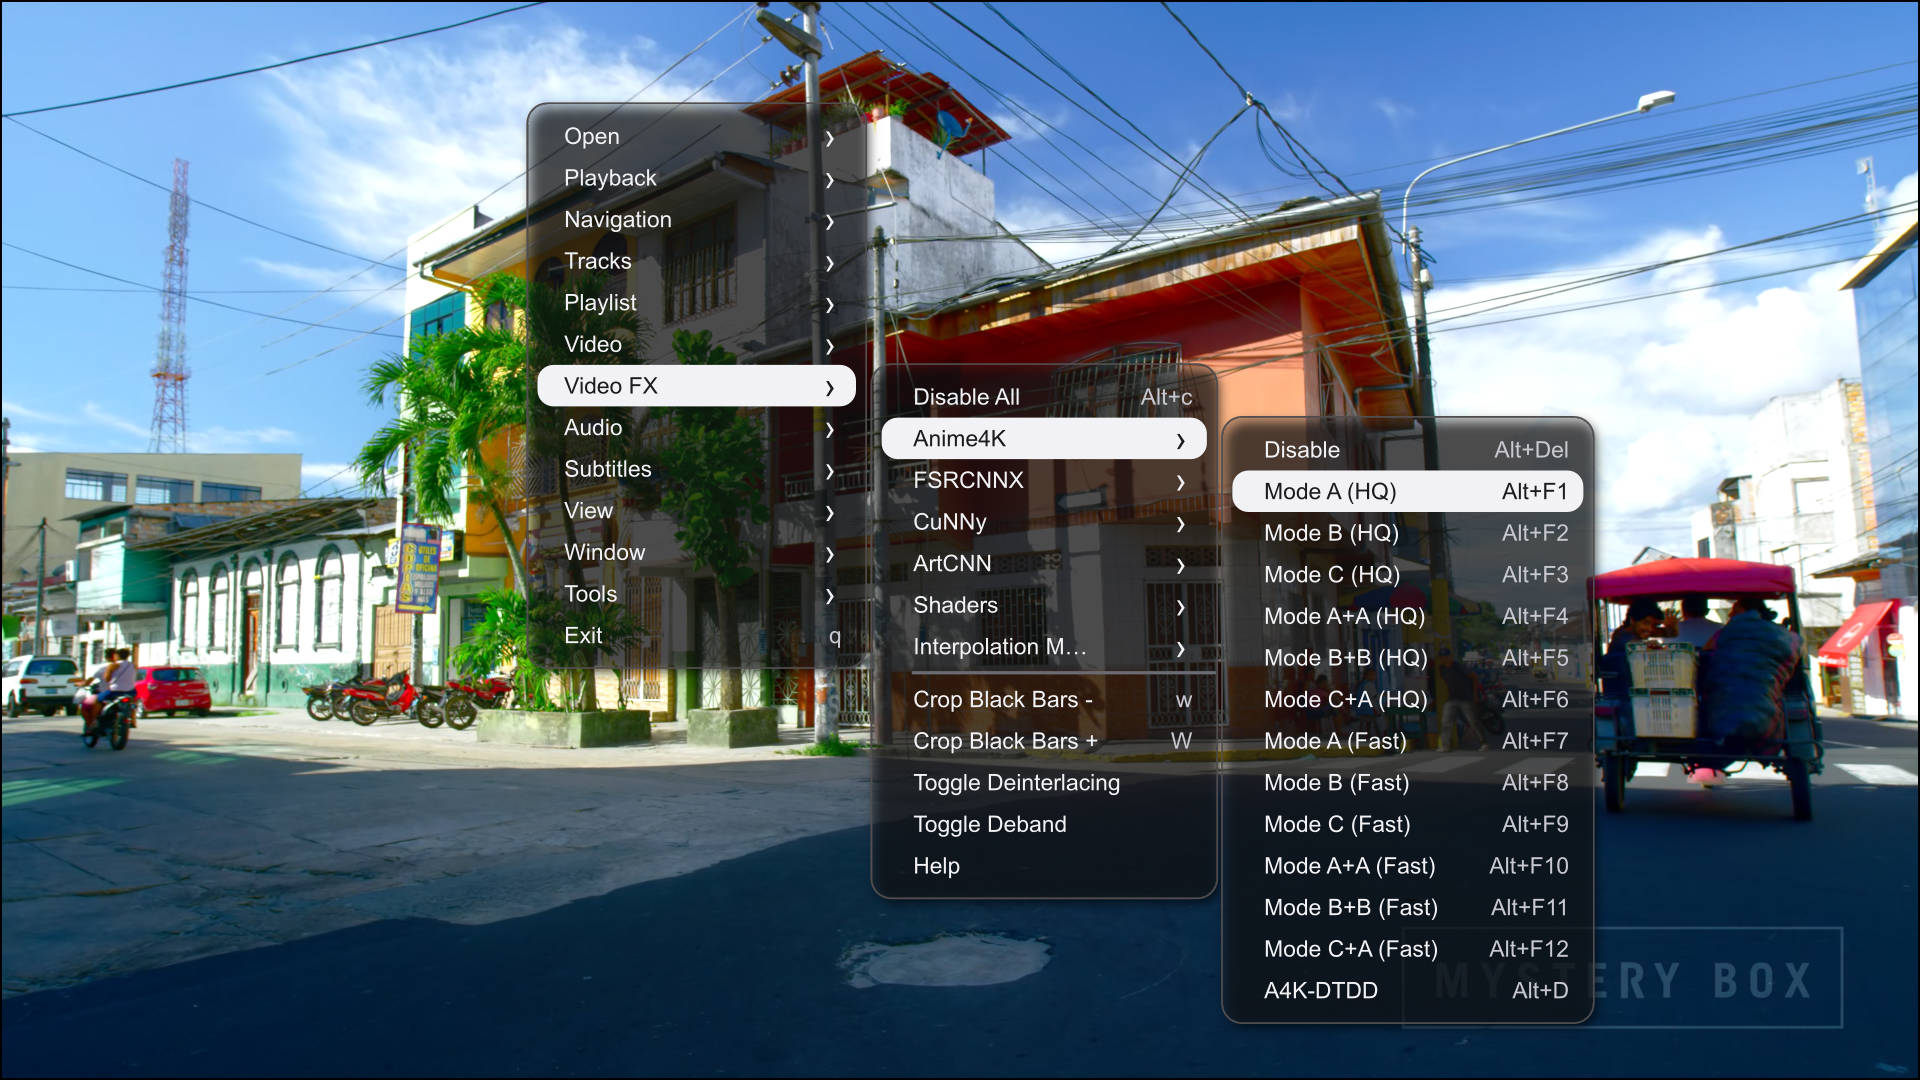
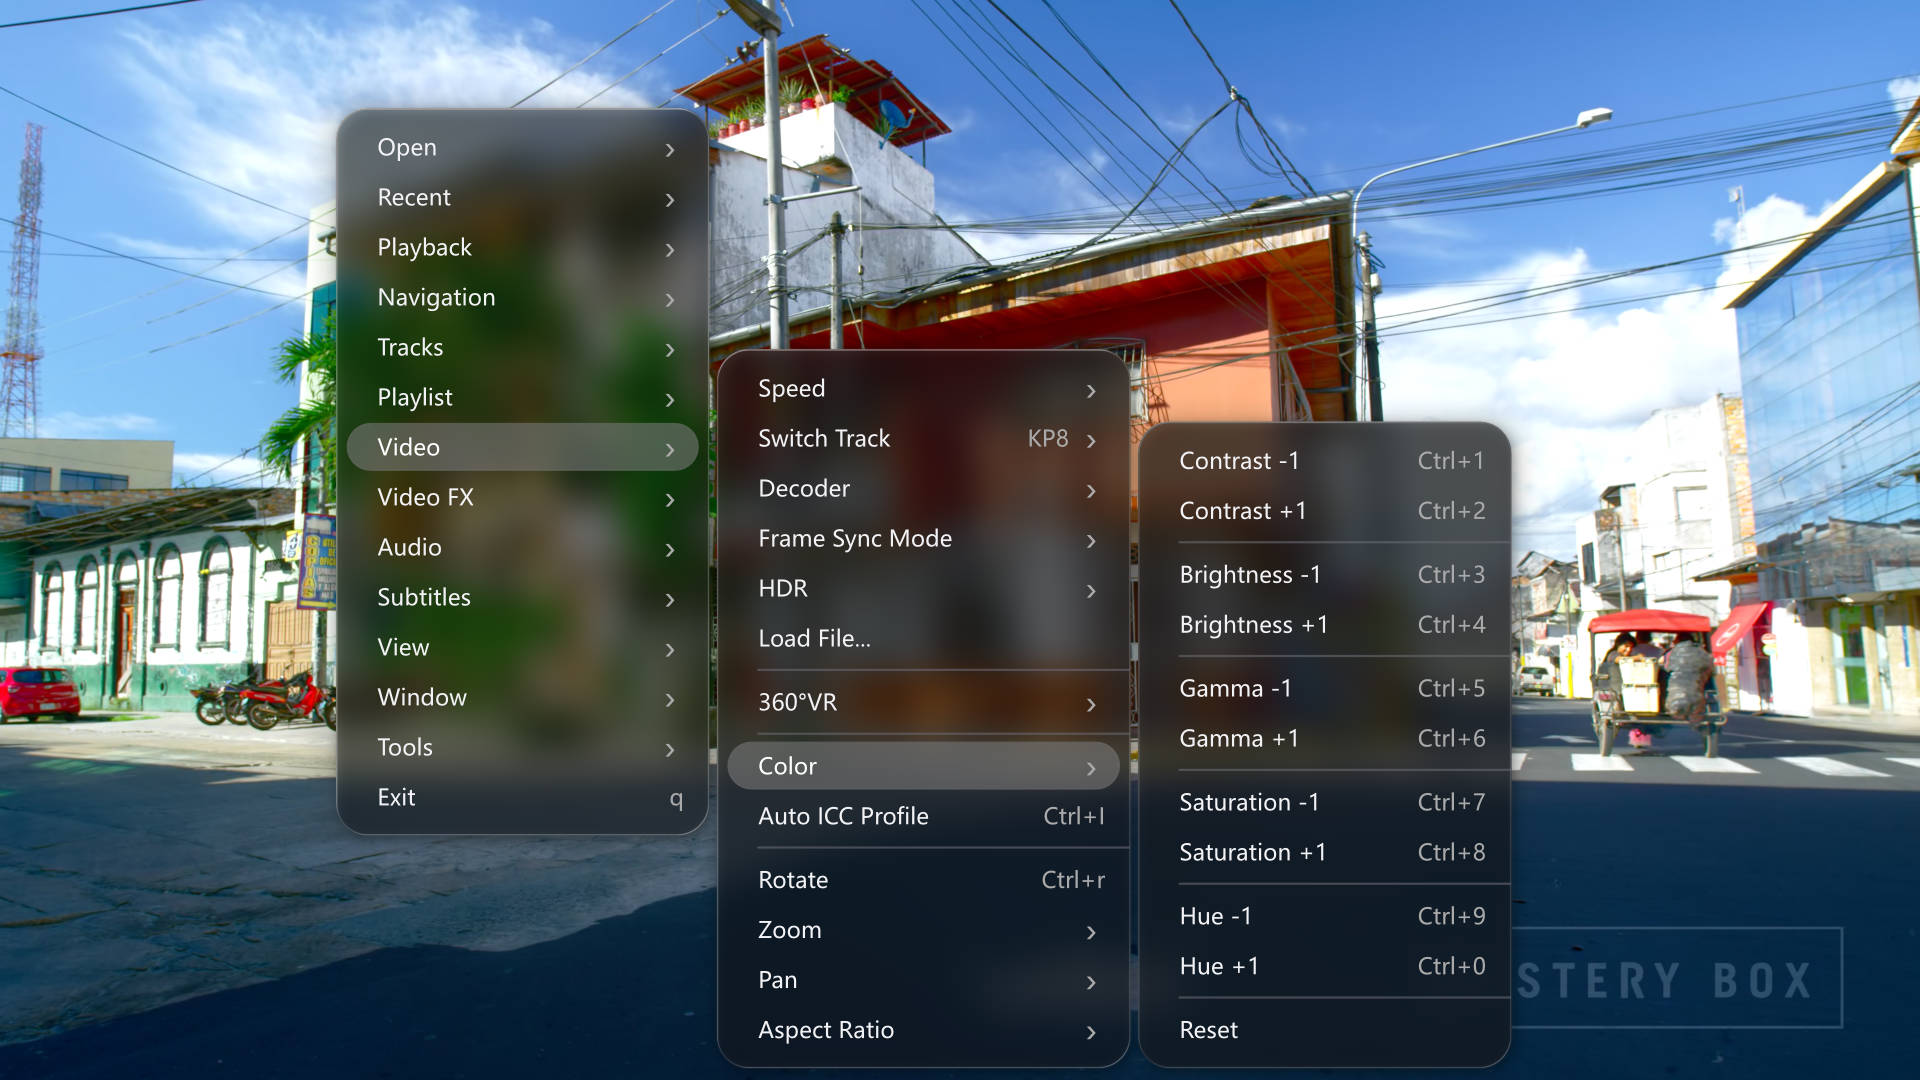
更新：样式优化

diff --git a/README.md b/README.md
@@ -21,9 +21,10 @@
 - [查看详细使用教程](https://mpvConfig.github.io/docs/install.html)
 - To check out docs, visit [Installation Guide](https://mpvConfig.github.io/docs/en)
 
-## 官网主页
+## 主页
 
-🎉✨ [https://mpvconfig.github.io](https://mpvConfig.github.io/)
+- 🎉 官网主页：[https://mpvconfig.github.io](https://mpvConfig.github.io/)
+- 📔 文档主页：[https://mpvconfig.github.io/docs](https://mpvconfig.github.io/docs/)
 
 ## 主要功能
 
@@ -44,15 +45,15 @@
 
 ## 主题预览截图
 
-### 主题皮肤（modernz）
+### 主题皮肤 modernz
 
 ![image](./docs/images/Snipaste_2026-03-16_20-32-59.jpg)
 
-### 主题皮肤（uosc）
+### 主题皮肤 uosc
 
 ![image](./docs/images/Snipaste_2026-08-24_03-00-53.jpg)
 
-### 主题皮肤 （modern_glass）
+### 主题皮肤 modern_glass
 
 ![image](./docs/images/Snipaste_2026-10-13_21-06-43.jpg)
 

diff --git a/README_en.md b/README_en.md
@@ -17,6 +17,11 @@
 
 - 🎯 To check out docs, visit [Installation Guide](https://mpvConfig.github.io/docs/en/install.html)
 
+## Home Pages
+
+- 🎉 Official website: [https://mpvconfig.github.io](https://mpvConfig.github.io/)
+- 📔 Documentation: [https://mpvconfig.github.io/docs](https://mpvconfig.github.io/docs/en)
+
 ## Feature
 
 - **Modern, Borderless UI** — Beautiful themes including `ModernZ`, `uosc`, and `ModernGlass`.
@@ -42,9 +47,9 @@
 
 ![image](./docs/images/Snipaste_2026-09-02_22-25-41.jpg)
 ![image](./docs/images/Snipaste_2026-10-10_15-08-58.jpg)
-**modern_glass** 👇
+**modern_glass** ⇣⇣
 ![image](./docs/images/Snipaste_2026-10-13_21-06-43.jpg)
-**modernz** 👇
+**modernz** ⇣⇣
 ![image](./docs/images/Snipaste_2026-09-02_22-31-00.jpg)
-**uosc** 👇
+**uosc** ⇣⇣
 ![image](./docs/images/Snipaste_2026-08-24_03-00-53.jpg)
